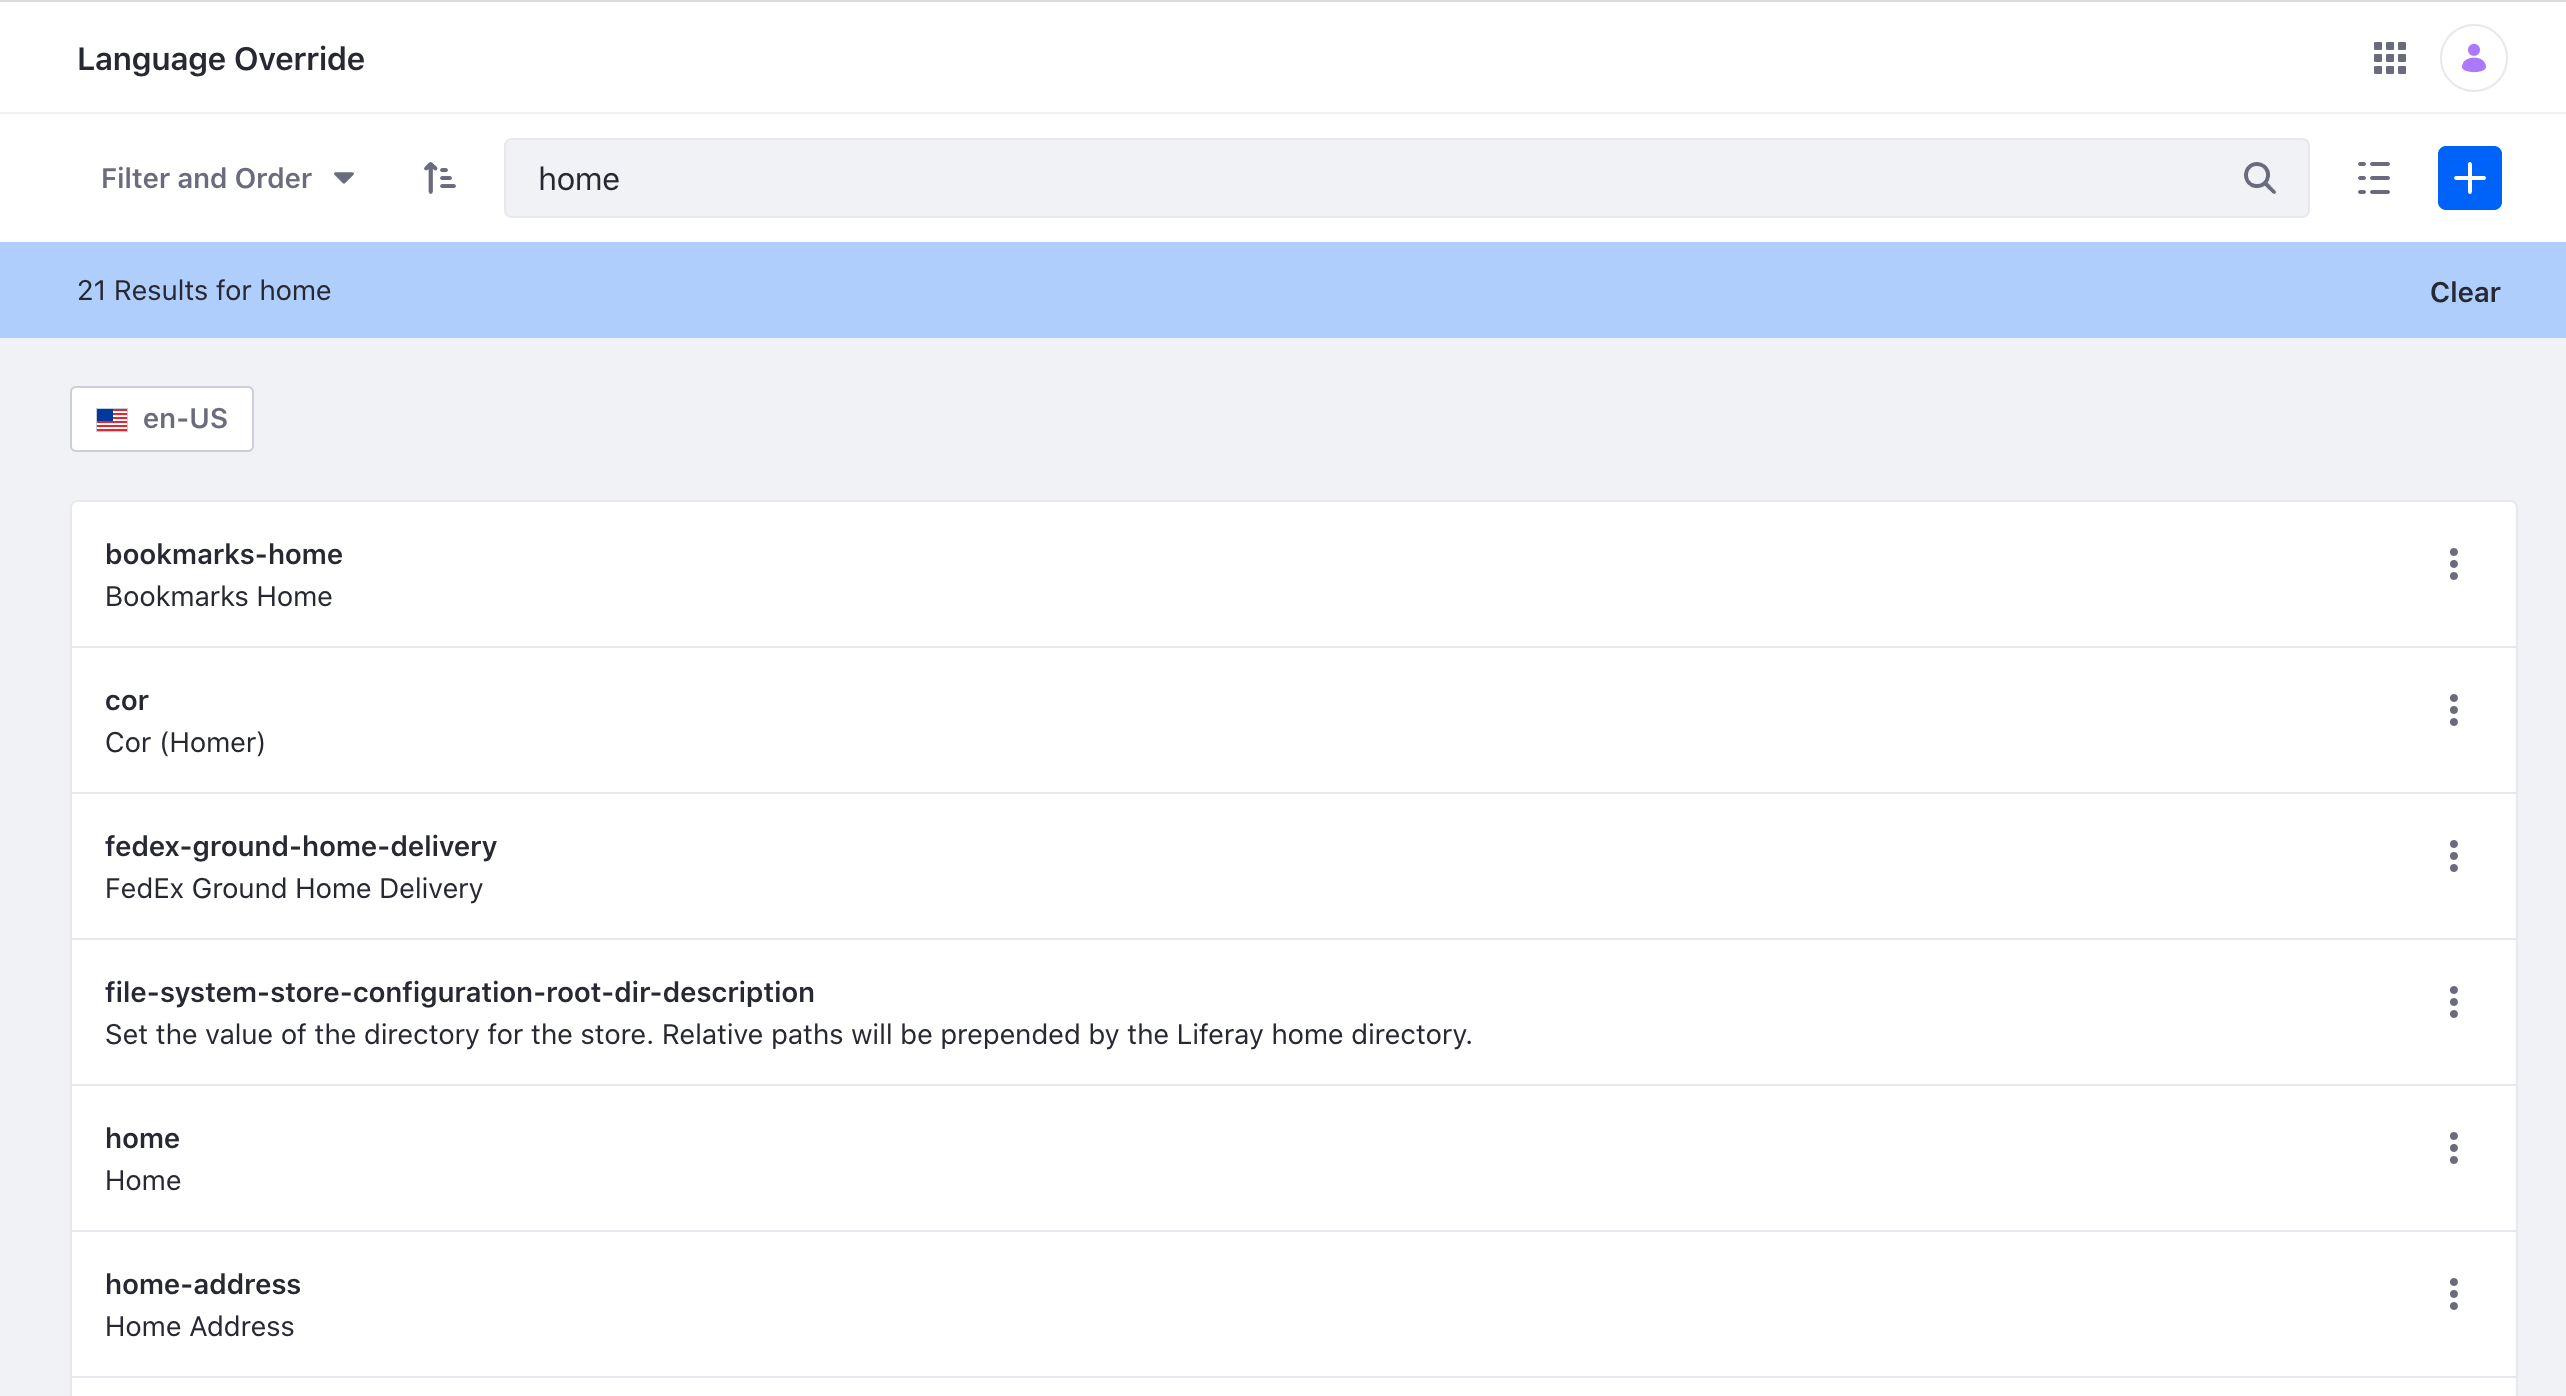
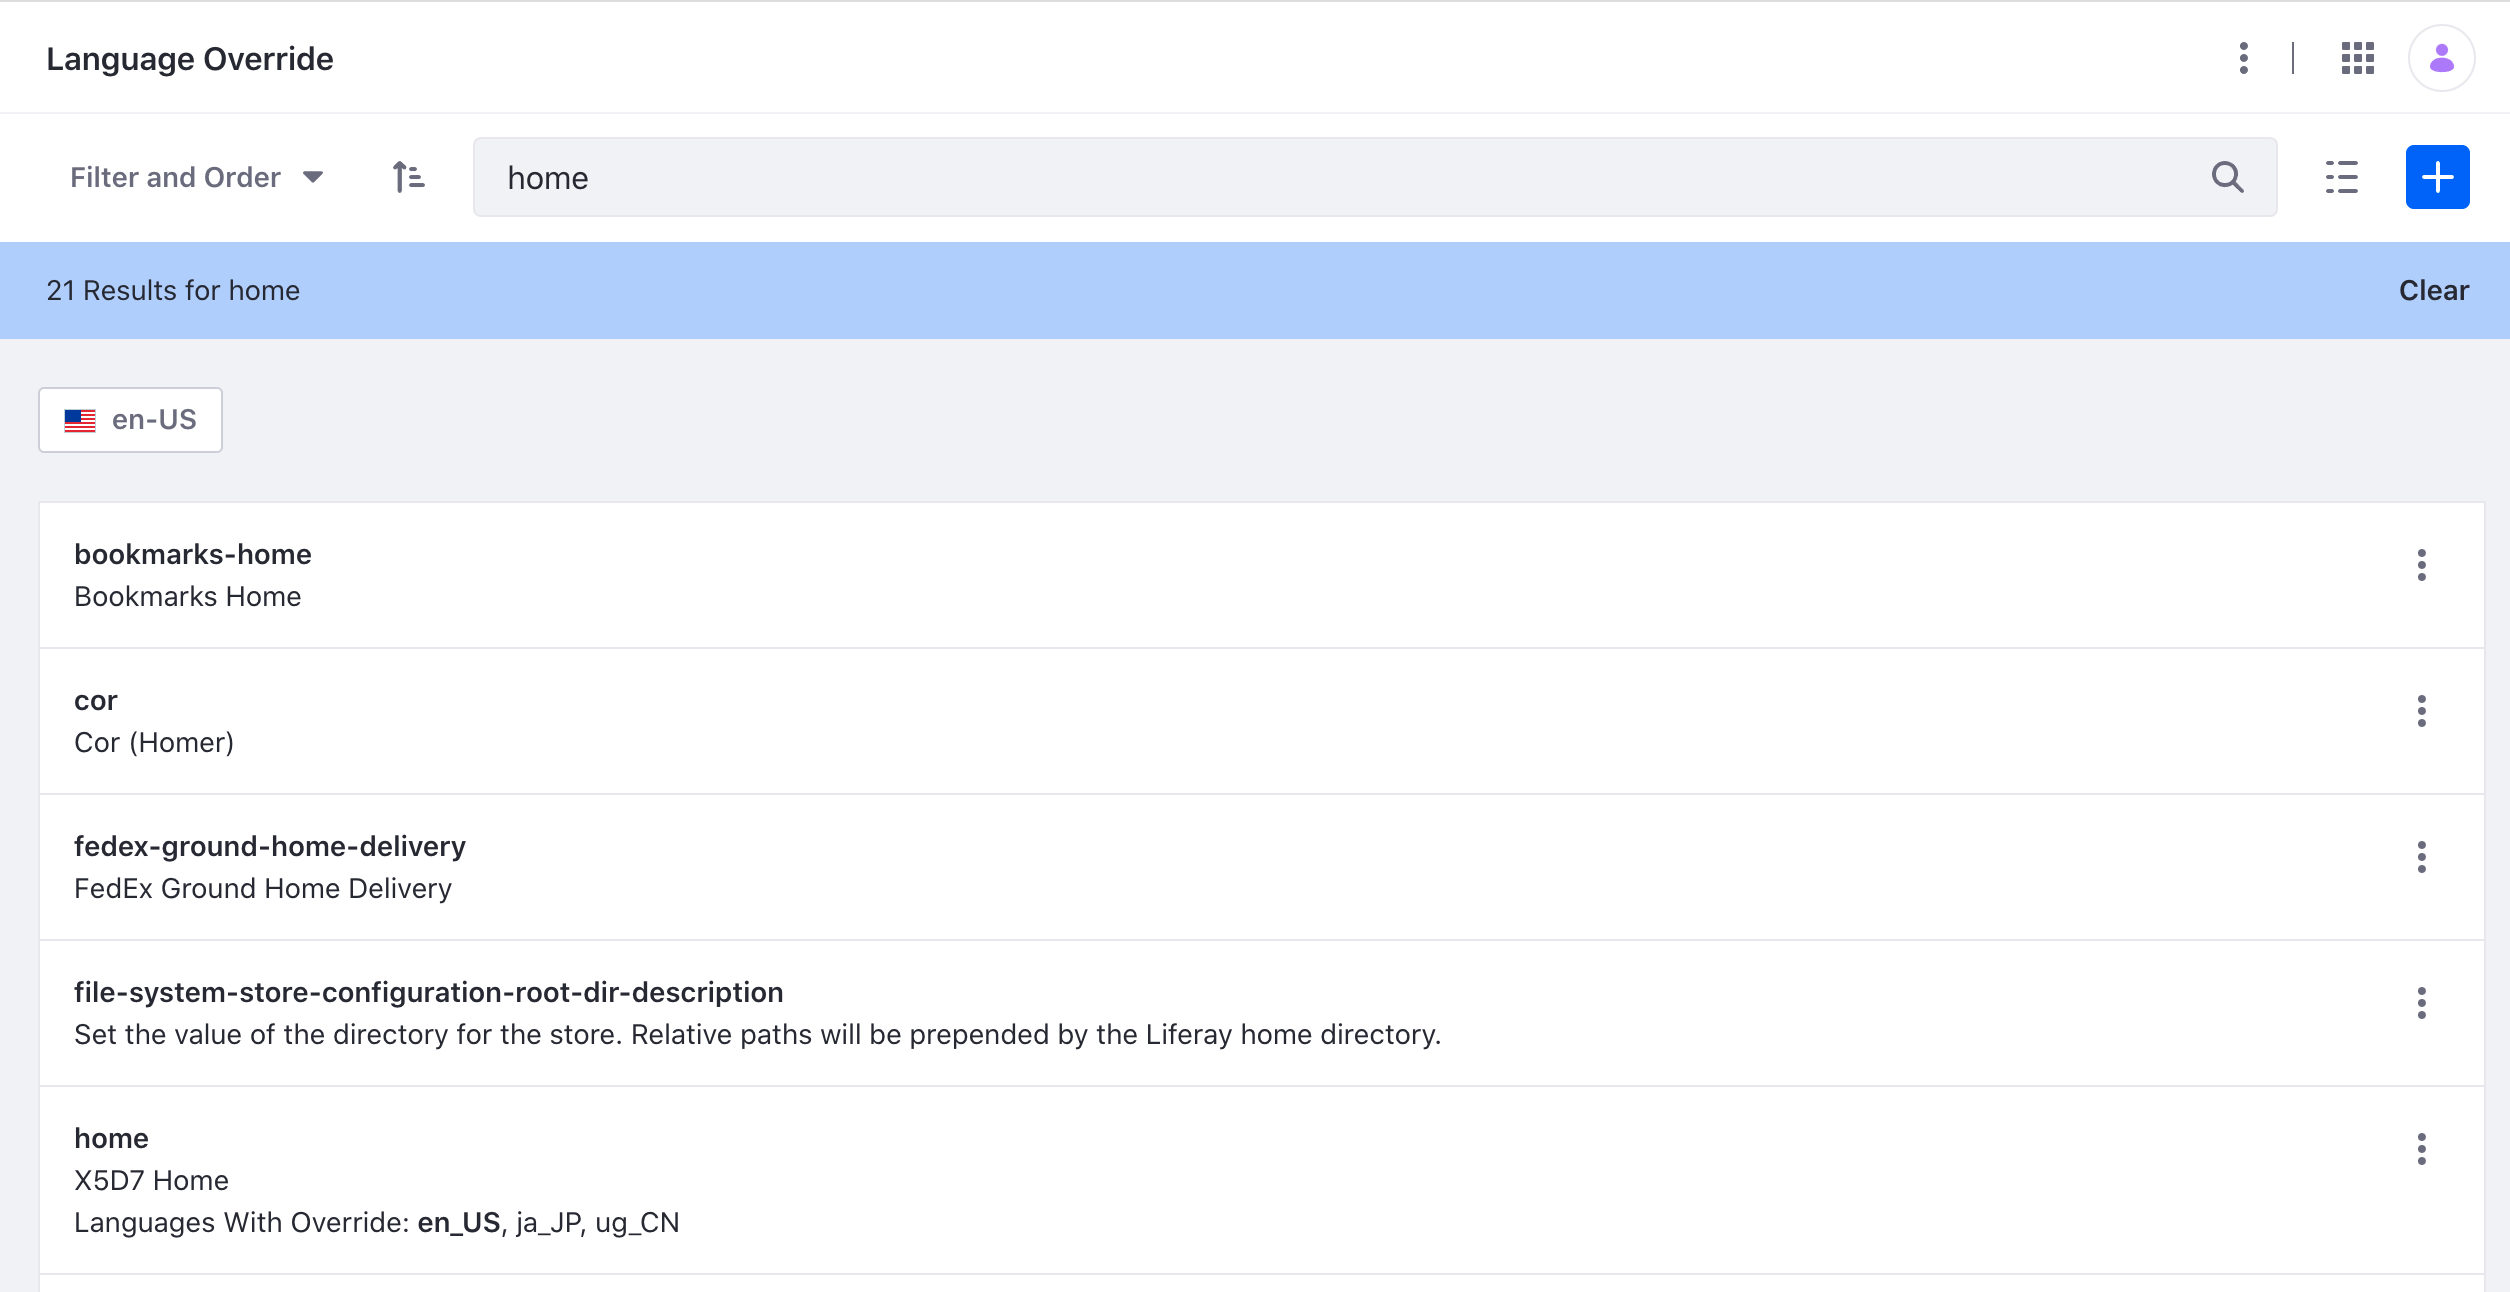
LRDOCS-10204 import/export and filtering

diff --git a/docs/dxp/latest/en/system-administration/configuring-liferay/changing-language-translations.md b/docs/dxp/latest/en/system-administration/configuring-liferay/changing-language-translations.md
@@ -1,6 +1,8 @@
 # Changing Language Translations
 
-Use the Language Override tool to override existing translations or add new language keys and translations. This tool is available in Liferay DXP 7.4 U4 (Update 4) and above or Liferay Portal 7.4 GA8 and above. Note that these overrides take place at the Instance level of [Configuration Scope](./understanding-configuration-scope.md). For previous Liferay versions, see [Overriding Global Language Translations](../../liferay-internals/extending-liferay/overriding-global-language-translations.md).
+> Available: Liferay DXP 7.4 U4/Liferay Portal 7.4 GA8. Import/Export and filtering functionality in Liferay DXP 7.4 U17/Liferay Portal 7.4 GA17
+
+Use the Language Override tool to override existing translations or add new language keys and translations. Note that these overrides take place at the Instance level of [Configuration Scope](./understanding-configuration-scope.md). For previous Liferay versions, see [Overriding Global Language Translations](../../liferay-internals/extending-liferay/overriding-global-language-translations.md).
 
 ## Overriding a Translation
 
@@ -14,9 +16,9 @@ Use the Language Override tool to override existing translations or add new lang
 
 3. Locate and click on the translation. A new window opens. You can also click the *Actions* (![Actions icon](../../images/icon-actions.png)) &rarr; _Edit_ to the right of the translation. 
 
-4. Enter a new translation for the locale you want to override. Click *Save* at the bottom of the page. 
+4. Enter new translations for the locales you want to override. Click *Save* at the bottom of the page. 
 
-   ![Enter a new translation for the locale you want to override.](./changing-language-translations/images/02.png)
+   ![Enter new translations for the locales you want to override.](./changing-language-translations/images/02.png)
 
 5. The translation for `home` is now overridden.
 
@@ -26,7 +28,7 @@ Use the Language Override tool to override existing translations or add new lang
 
 1. Open the Global Menu (![Global Menu](../../images/icon-applications-menu.png)). Navigate to *Control Panel* &rarr; *Configuration* &rarr; *Language Override*.
 
-2. Click *Filter and Order* and select *Override*. A list of overridden translations are displayed.
+2. Use the search bar to find override you wish to modify. To filter the results for only the translations that have overrides, click *Filter and Order* and select *Any Language*. Or click *Selected Language* to only show overrides within the locale selected.
 
 3. Select the translation you wish to modify. A new window opens. You can also click the *Actions* (![Actions icon](../../images/icon-actions.png)) &rarr; _Edit_ to the right of the translation. 
 
@@ -43,3 +45,27 @@ Use the Language Override tool to override existing translations or add new lang
 1. Click *Add* (![Add button](../../images/icon-add.png)) and a new window opens.
 
 1. Enter a key and at least one language translation. Note, the maximum length is 1,000 characters for the key. Click *Save* when finished.
+
+## Importing and Exporting Language Translations
+
+Language overrides can be easily imported or exported with language properties files.
+
+### Importing Language Translations
+
+1. To import, click the Actions icon (![Actions icon](../../images/icon-actions.png)) to the left of the Global Menu icon. 
+
+1. Select *Import Translations* and a new window will open.
+
+   ![Select import translations and a new window will open.](./changing-language-translations/images/05.png)
+
+1. Use the drop-down menu to select the language.
+
+1. Click *Choose File* and select the `Language.properties` file that contains your overrides. Note, that you must supply a separate file for each language you wish to override. Each language has its own [language properties file](https://github.com/liferay/liferay-portal/tree/master/modules/apps/portal-language/portal-language-lang/src/main/resources/content) containing keys for its language. 
+
+1. Click *Save* and the overrides are now saved.
+
+### Exporting Language Translations
+
+1. To export, click the Actions icon (![Actions icon](../../images/icon-actions.png)) to the left of the Global Menu icon. 
+
+1. Select *Export* and a ZIP file containing `Language.properties` files for each language with overrides will begin downloading.
